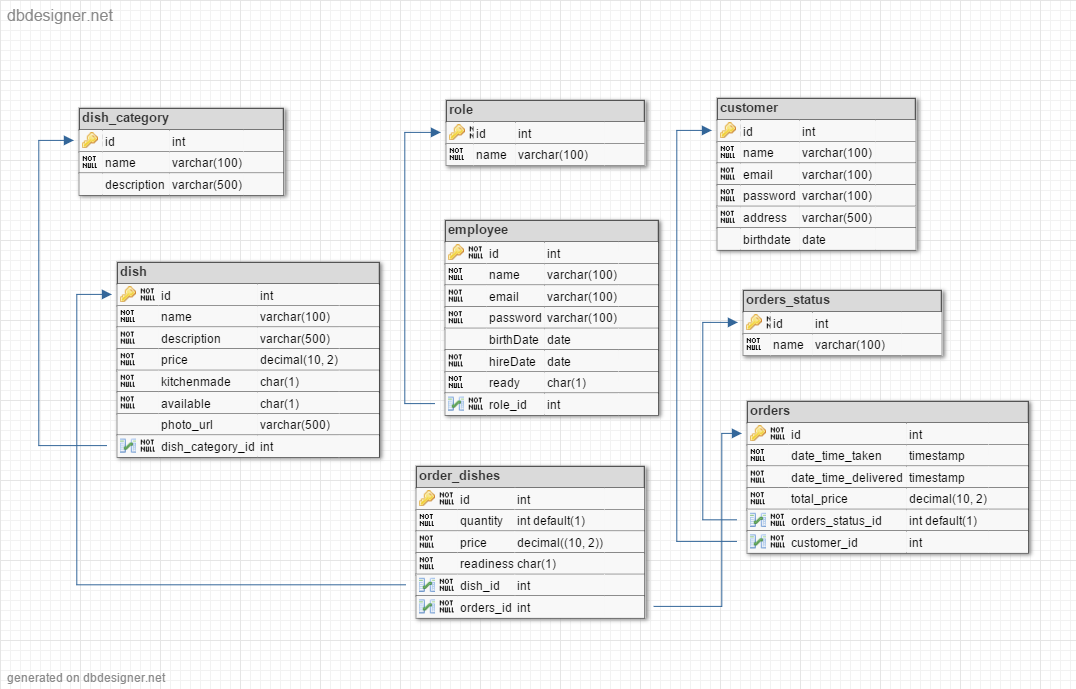
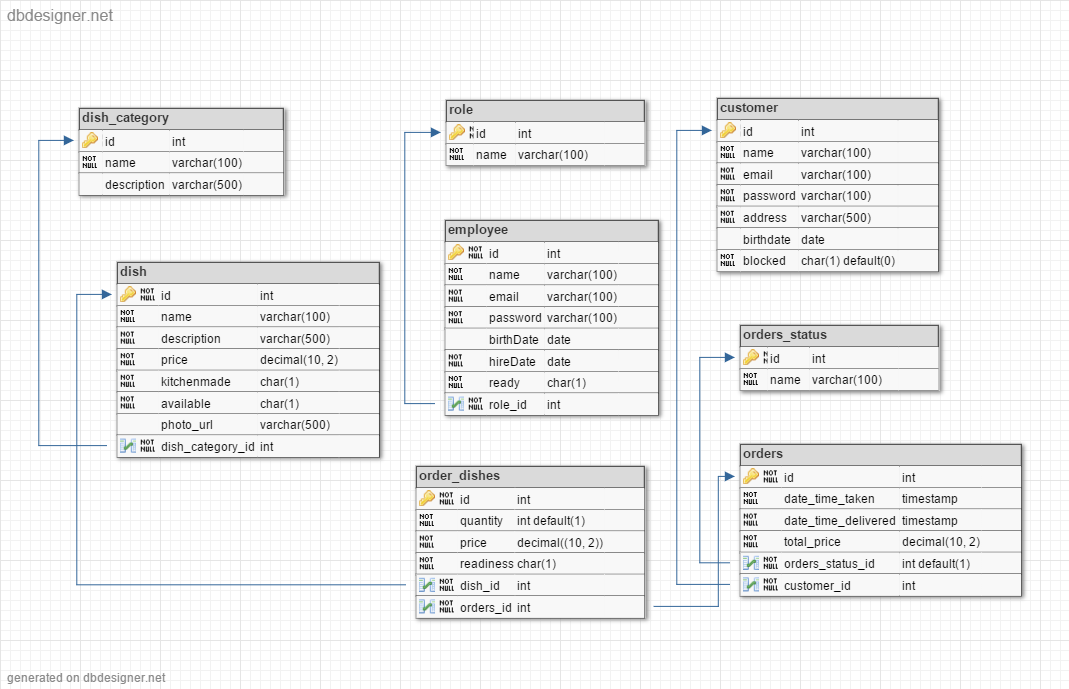
add customer sign up validation

diff --git a/src/main/java/com/bionic/edu/bean/CustomerBean.java b/src/main/java/com/bionic/edu/bean/CustomerBean.java
@@ -82,10 +82,15 @@ public class CustomerBean implements Serializable {
     }
 
     public String submitRegistration() {
-        customerService.save(customer);
+        try {
+            customerService.save(customer);
+        } catch (Exception e) {
+            RequestContext.getCurrentInstance().showMessageInDialog(new FacesMessage(FacesMessage.SEVERITY_INFO,
+                    "Sign Up Error", "Current email is already used."));
+            return "signUp";
+        }
         signIn(customer.getEmail(), customer.getPassword());
-        RequestContext.getCurrentInstance().showMessageInDialog(new
-                FacesMessage(FacesMessage.SEVERITY_INFO,
+        RequestContext.getCurrentInstance().showMessageInDialog(new FacesMessage(FacesMessage.SEVERITY_INFO,
                 "Sign Up Success", "You have successfully registered on ERestaurant."));
         return "menu";
     }
@@ -111,8 +116,7 @@ public class CustomerBean implements Serializable {
             customer = customerService.signIn(email, decryptPass);
         } catch (NoResultException e) {
             // logger
-            RequestContext.getCurrentInstance().showMessageInDialog(new
-                    FacesMessage(FacesMessage.SEVERITY_INFO,
+            RequestContext.getCurrentInstance().showMessageInDialog(new FacesMessage(FacesMessage.SEVERITY_INFO,
                     "Sign In Error", "Incorrect email or password, please try again."));
             return "signIn";
         }
@@ -120,8 +124,7 @@ public class CustomerBean implements Serializable {
         if (signedIn) {
             return "menu";
         } else {
-            RequestContext.getCurrentInstance().showMessageInDialog(new
-                    FacesMessage(FacesMessage.SEVERITY_INFO,
+            RequestContext.getCurrentInstance().showMessageInDialog(new FacesMessage(FacesMessage.SEVERITY_INFO,
                     "Sign In Error", "Incorrect email or password, please try again."));
             return "signIn";
         }
@@ -129,8 +132,7 @@ public class CustomerBean implements Serializable {
 
     public String signOut() {
         FacesContext.getCurrentInstance().getExternalContext().invalidateSession();
-        RequestContext.getCurrentInstance().showMessageInDialog(new
-                FacesMessage(FacesMessage.SEVERITY_INFO,
+        RequestContext.getCurrentInstance().showMessageInDialog(new FacesMessage(FacesMessage.SEVERITY_INFO,
                 "Signed Out", "Thank you for visiting ERestaurant."));
         return "menu";
     }

diff --git a/src/main/java/com/bionic/edu/bean/EmployeeBean.java b/src/main/java/com/bionic/edu/bean/EmployeeBean.java
@@ -2,10 +2,15 @@ package com.bionic.edu.bean;
 
 import com.bionic.edu.entity.Employee;
 import com.bionic.edu.service.EmployeeService;
+import com.bionic.edu.util.Crypto;
+import org.primefaces.context.RequestContext;
 import org.springframework.context.annotation.Scope;
 
+import javax.faces.application.FacesMessage;
+import javax.faces.context.FacesContext;
 import javax.inject.Inject;
 import javax.inject.Named;
+import javax.persistence.NoResultException;
 import java.io.Serializable;
 import java.util.List;
 
@@ -66,6 +71,7 @@ public class EmployeeBean implements Serializable {
         this.employee = employee;
     }
 
+
     public void refreshList() {
         employees = employeeService.findAll();
     }
@@ -81,9 +87,35 @@ public class EmployeeBean implements Serializable {
     }
 
     public String updateEmployee(String id) {
-        int n = Integer.valueOf(id);
-        employee = employeeService.findById(n);
+        employee = employeeService.findById(Integer.valueOf(id));
         return "NewEmployee";
+    }
+
+    public String signIn(String email, String password) {
+        String decryptPass = Crypto.encrypt(password);
+        try {
+            employee = employeeService.signIn(email, decryptPass);
+        } catch (NoResultException e) {
+            // logger
+            RequestContext.getCurrentInstance().showMessageInDialog(new FacesMessage(FacesMessage.SEVERITY_INFO,
+                    "Sign In Error", "Incorrect email or password, please try again."));
+            return "employeeSignIn";
+        }
+        signedIn = employee.getPassword().equals(password);
+        if (signedIn) {
+            return "menu";
+        } else {
+            RequestContext.getCurrentInstance().showMessageInDialog(new FacesMessage(FacesMessage.SEVERITY_INFO,
+                    "Sign In Error", "Incorrect email or password, please try again."));
+            return "employeeSignIn";
+        }
+    }
+
+    public String signOut() {
+        FacesContext.getCurrentInstance().getExternalContext().invalidateSession();
+        RequestContext.getCurrentInstance().showMessageInDialog(new FacesMessage(FacesMessage.SEVERITY_INFO,
+                "Signed Out", "Thank you, have a good day."));
+        return "menu";
     }
 
 }

diff --git a/src/main/java/com/bionic/edu/entity/Customer.java b/src/main/java/com/bionic/edu/entity/Customer.java
@@ -16,6 +16,7 @@ public class Customer {
     private String password;
     private String address;
     private Date birthDate;
+    private boolean blocked;
 
     public Customer() {
     }
@@ -76,6 +77,14 @@ public class Customer {
         this.birthDate = birthDate;
     }
 
+    public boolean isBlocked() {
+        return blocked;
+    }
+
+    public void setBlocked(boolean blocked) {
+        this.blocked = blocked;
+    }
+
     @Override
     public String toString() {
         return "Customer{" +
@@ -85,6 +94,7 @@ public class Customer {
                 ", password='" + password + '\'' +
                 ", address='" + address + '\'' +
                 ", birthDate=" + birthDate +
+                ", blocked=" + blocked +
                 '}';
     }
 }
